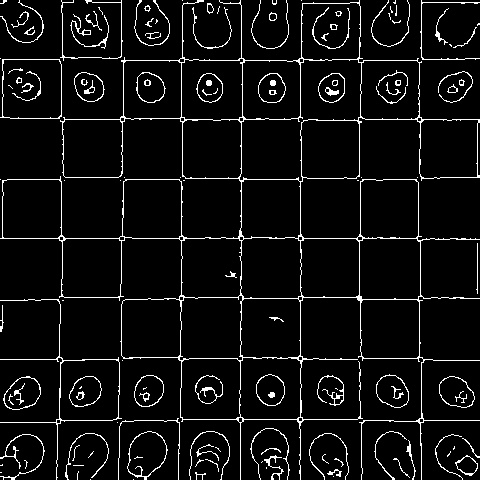
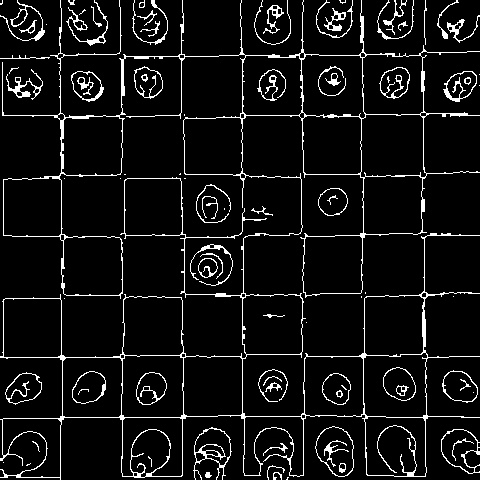
Ajout CLAHE

diff --git a/vision/ChessCamera.py b/vision/ChessCamera.py
@@ -1,5 +1,5 @@
 import numpy as np
-import sys
+import sys, time
 import cv2
 from ChessboardFrame import ChessboardFrame
 from itertools import product
@@ -17,6 +17,7 @@ class ChessCamera(object):
         if RUN_ON_PI:
             self.camera = PiCamera()
             self.camera.resolution = (640,480)
+            time.sleep(0.5)
 
         self.IMAGE_PATH = image
 
@@ -153,8 +154,11 @@ class ChessCamera(object):
 
     def canny(self, img):
         #img = cv2.cvtColor(image, cv2.COLOR_BGR2GRAY)
-
         img = cv2.GaussianBlur(img, (CANNY_BLUR,CANNY_BLUR), 0)
+
+        clahe = cv2.createCLAHE(clipLimit=CLAHE_LIMIT, tileGridSize=(CLAHE_GRID,CLAHE_GRID))
+        img = clahe.apply(img)
+
         img = self.adjust_gamma(img, CANNY_GAMMA)
         if DEBUG : cv2.imwrite("output/gray.jpg", img)
 

diff --git a/vision/constants.py b/vision/constants.py
@@ -1,5 +1,5 @@
 DEBUG = True
-RUN_ON_PI = False
+RUN_ON_PI = True
 
 # BOARD CONSTANTS
 SQUARE_SIZE = 60
@@ -8,17 +8,21 @@ BOARD_SIZE = SQUARE_SIZE * 8
 # IMAGE PROCESS
 RESCALE_RATIO = 1.015
 
-CANNY_LOWER = 10
-CANNY_UPPER = 20
-CANNY_BLUR = 9
-CANNY_GAMMA = 4
+CANNY_LOWER = 30
+CANNY_UPPER = 60
+CANNY_BLUR = 7
+CANNY_GAMMA = 2
 
-MASK_BLUR = 29
-MASK_DILATE_ITER = 2
-MASK_ERODE_ITER = 8
+CLAHE_LIMIT = 2.0
+CLAHE_GRID = 8
+
+
+MASK_BLUR = 21
+MASK_DILATE_ITER = 1
+MASK_ERODE_ITER = 9
 MASK_COLOR = (0,0,0)
 MASK_DILATE = 9
 
-THRESHOLD_PRESENCE = 50
-THRESHOLD_COLOR = 200
-THRESHOLD_BINARY = 70
+THRESHOLD_PRESENCE = 120
+THRESHOLD_COLOR = 120
+THRESHOLD_BINARY = 100

diff --git a/vision/test.py b/vision/test.py
@@ -1,4 +1,4 @@
-import sys
+import sys,time
 from ChessCamera import ChessCamera
 from constants import *
 
@@ -18,7 +18,9 @@ if __name__ == '__main__':
         if "-c" in sys.argv:
             ChessCamera.calibration()
         else:
-            current_board = ChessCamera.current_board_processed()
-            printBoard(current_board)
+            while True:
+                current_board = ChessCamera.current_board_processed()
+                printBoard(current_board)
+                time.sleep(1)
     else:
         print("Usage: test <image> (options: -c calibration)")
